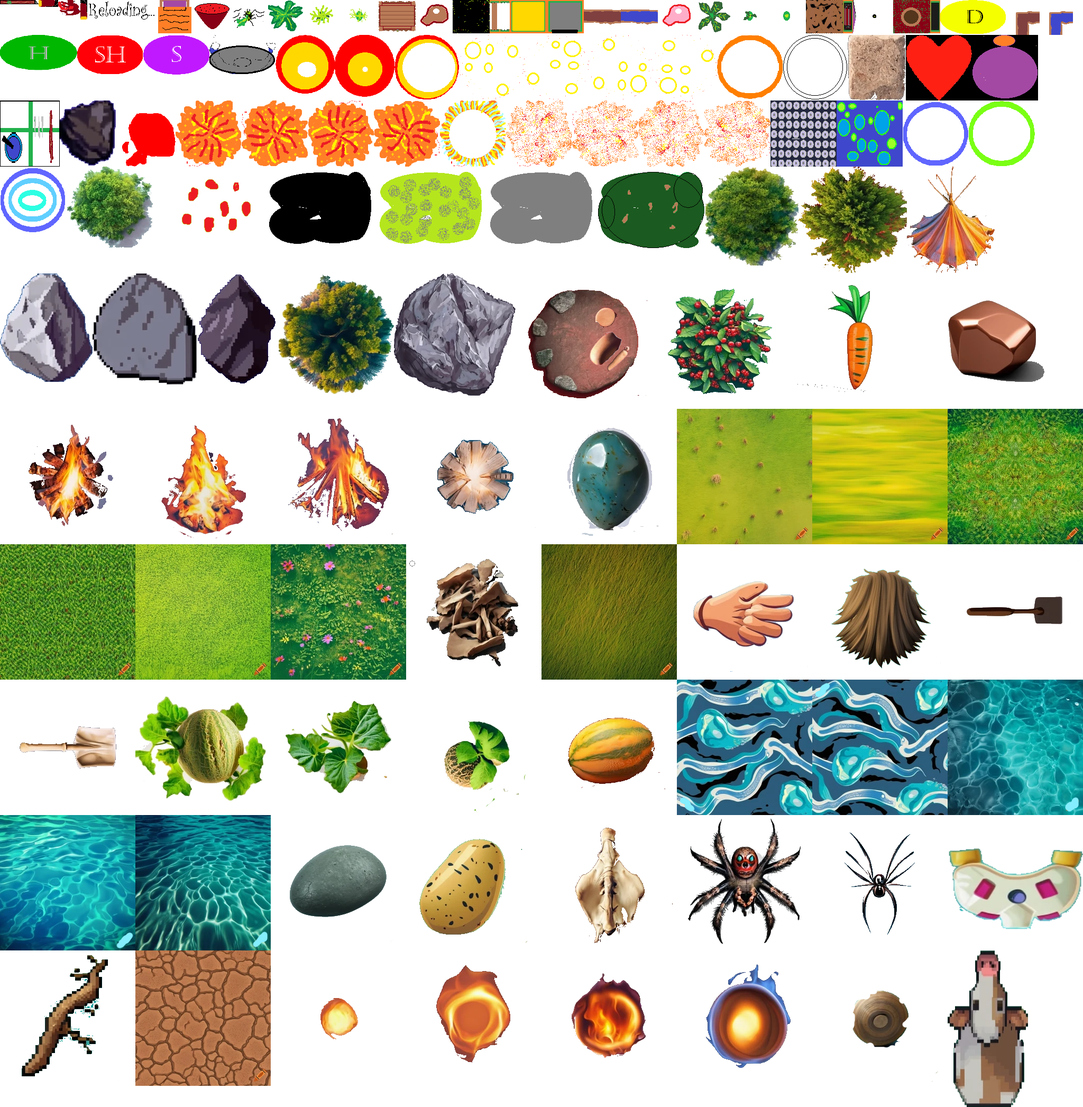
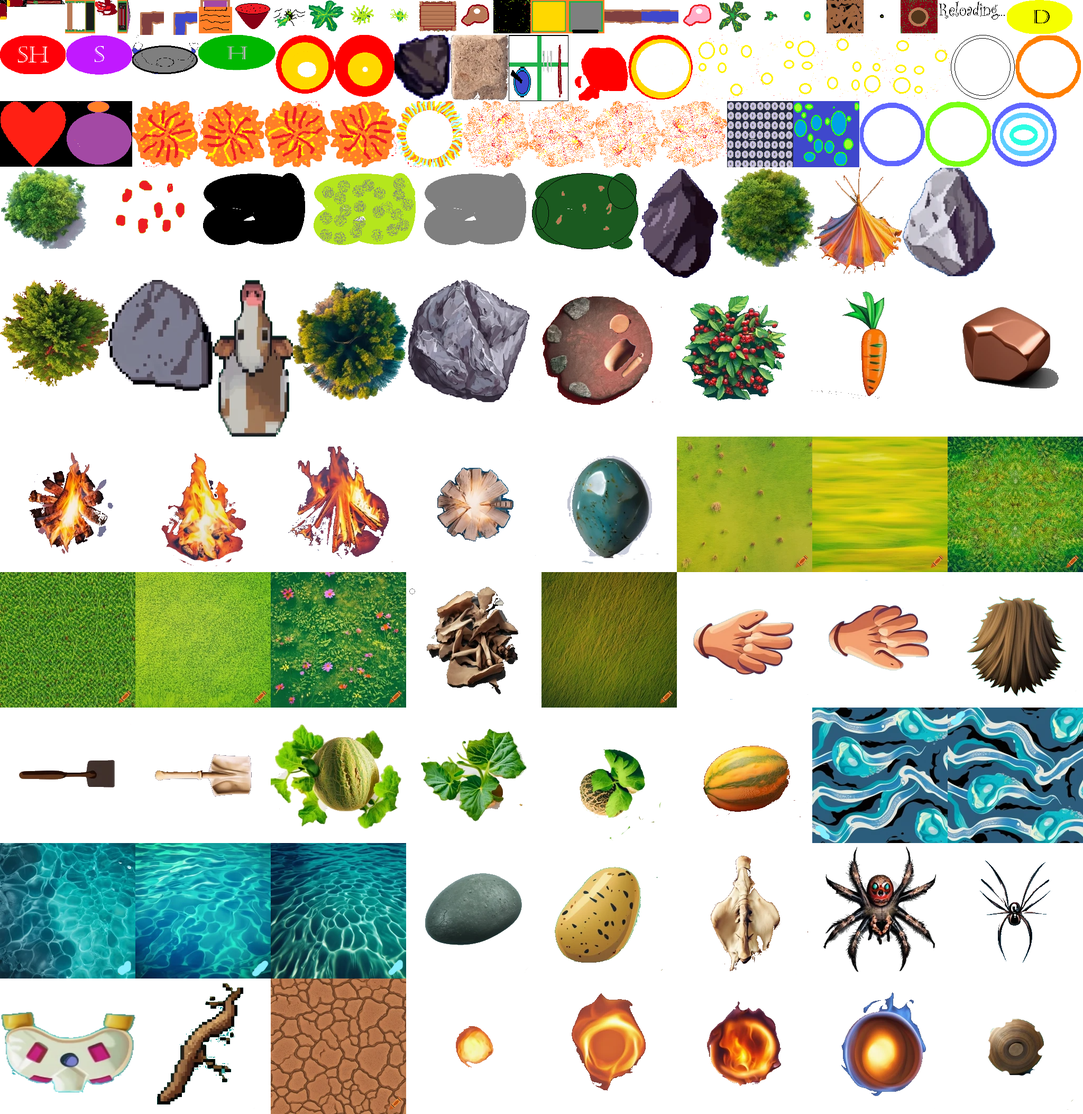
Sort out hand drawing a bit more

diff --git a/core/src/com/mygdx/game/WorldRenderer.java b/core/src/com/mygdx/game/WorldRenderer.java
@@ -230,7 +230,7 @@ public class WorldRenderer {
 //        drawButtons();
 //        spriteBatch.disableBlending();
         spriteBatch.end();
-        drawDebug();
+//        drawDebug();
 //        aiDebug();
 //        drawCollisionBlocks();
         if (debug) drawDebug();
@@ -597,17 +597,19 @@ public class WorldRenderer {
     }
 
     private void drawHandItem(Player sprite, float rotation, Vector2 gridRef, float width, float height, TextureRegion textureToDraw) {
-        Vector2 drawVector = getDrawVector(sprite, rotation, gridRef);
-        spriteBatch.draw(textureToDraw, drawVector.x, drawVector.y,0, 0, 1.5F, 1.5F, 1F, 1F, rotation - 45);
+//        Vector2 drawVector = getDrawVector(sprite, rotation, gridRef);
+        Vector2 drawVector = new Vector2(sprite.getHitCircle().x, sprite.getHitCircle().y);
+        spriteBatch.draw(textureToDraw, drawVector.x, drawVector.y,0, 0, 1.5F, 1.5F, 1F, 1F, rotation);
     }
 
     private void drawTargetCircle(Vector2 gridRef, float width, float height, TextureRegion textureToDraw) {
         spriteBatch.draw(textureToDraw, gridRef.x - width/2, gridRef.y - height/2,width/2, height/2, width, height, 1F, 1F, 0);
     }
 
-    private void drawHand(Player sprite, float rotation, Vector2 gridRef, float width, float height, TextureRegion textureToDraw) {
+    private void drawHand(Player sprite, float rotation, Vector2 gridRef, float width, float height, TextureRegion textureToDraw, boolean left) {
         //todo sort out right hand
-        Vector2 drawVector = getDrawVector(sprite, rotation, gridRef);
+//        Vector2 drawVector = getDrawVector(sprite, rotation, gridRef);
+        Vector2 drawVector = left ? sprite.getHitPhase() == 0 ? getDrawVector(sprite, rotation, gridRef) : new Vector2(sprite.getHitCircle().x, sprite.getHitCircle().y) : gridRef;
         spriteBatch.draw(textureToDraw, drawVector.x, drawVector.y, 0, 0, width, height, 1F, 1F, rotation);
     }
 
@@ -765,8 +767,10 @@ public class WorldRenderer {
             }
         }
         float drawAngle = bob.getRotation();
-        drawHand(bob,bob.getRotation() - 35, bob.getCentrePosition(), bob.getWidth(), bob.getHeight(), textureLoader.getRegion("hand-01"));
-        drawHand(bob,bob.getRotation() + 55, bob.getCentrePosition(), bob.getWidth(), bob.getHeight(), textureLoader.getRegion("hand-01"));
+        //right hand
+        drawHand(bob,bob.getRotation() - 75, bob.getRightHandPosition(), bob.getWidth(), bob.getHeight(), textureLoader.getRegion("hand-02"), false);
+        //left hand
+        drawHand(bob,bob.getRotation() + 45, bob.getCentrePosition(), bob.getWidth(), bob.getHeight(), textureLoader.getRegion("hand-01"), true);
         spriteBatch.draw(bobFrame, bob.getPosition().x, bob.getPosition().y, bob.getWidth()/2, bob.getHeight()/2, bob.getWidth(), bob.getHeight(),
                 1, 1, drawAngle, true);
         spriteBatch.draw(textureLoader.getRegion("head-01"), bob.getPosition().x, bob.getPosition().y, bob.getWidth()/2, bob.getHeight()/2, bob.getWidth(), bob.getHeight(),
@@ -916,7 +920,7 @@ public class WorldRenderer {
                         itemWidth = bob.getWidth()/2;
                         itemHeight = bob.getHeight()/2;
                     }
-                    drawHandItem(bob,bob.getRotation() + 45, bob.getCentrePosition(), itemWidth, itemHeight, itemFrame);
+                    drawHandItem(bob,bob.getRotation(), bob.getCentrePosition(), itemWidth, itemHeight, itemFrame);
                 }
 
                 if (item instanceof Swingable) {

diff --git a/core/src/com/mygdx/game/model/moveable/Player.java b/core/src/com/mygdx/game/model/moveable/Player.java
@@ -349,7 +349,6 @@ public class Player extends Sprite {
             case 4:
                 x = getLeftHandPosition(45, getWidth()).x + (float)(getWidth() * 1.5 * Math.cos(rotation * Math.PI/180));
                 y = getLeftHandPosition(45, getWidth()).y + (float)(getHeight() * 1.5 * Math.sin((rotation * Math.PI/180)));
-                System.out.println("Case 1: Player position: " + getCentrePosition() + ", x:" + x + ", y: " + y + ", Rotation: " + rotation);
                 break;
 //            case 2:
 //                x = gridRef.x + (float)(getWidth()*2 * Math.cos((rotation) * Math.PI/180));

diff --git a/core/src/com/mygdx/game/TextureLoader.java b/core/src/com/mygdx/game/TextureLoader.java
@@ -23,6 +23,7 @@ public class TextureLoader {
         textureMap.put("armour-01", itemAtlas.findRegion("armour-01"));
         textureMap.put("dead", itemAtlas.findRegion("dead"));
         textureMap.put("hand-01", itemAtlas.findRegion("hand-01"));
+        textureMap.put("hand-02", itemAtlas.findRegion("hand-02"));
         textureMap.put("head-01", itemAtlas.findRegion("head-01"));
         textureMap.put("inv_shovel_bone", itemAtlas.findRegion("inv_shovel_bone"));
         textureMap.put("inv_hoe_bone", itemAtlas.findRegion("inv_hoe_bone"));
